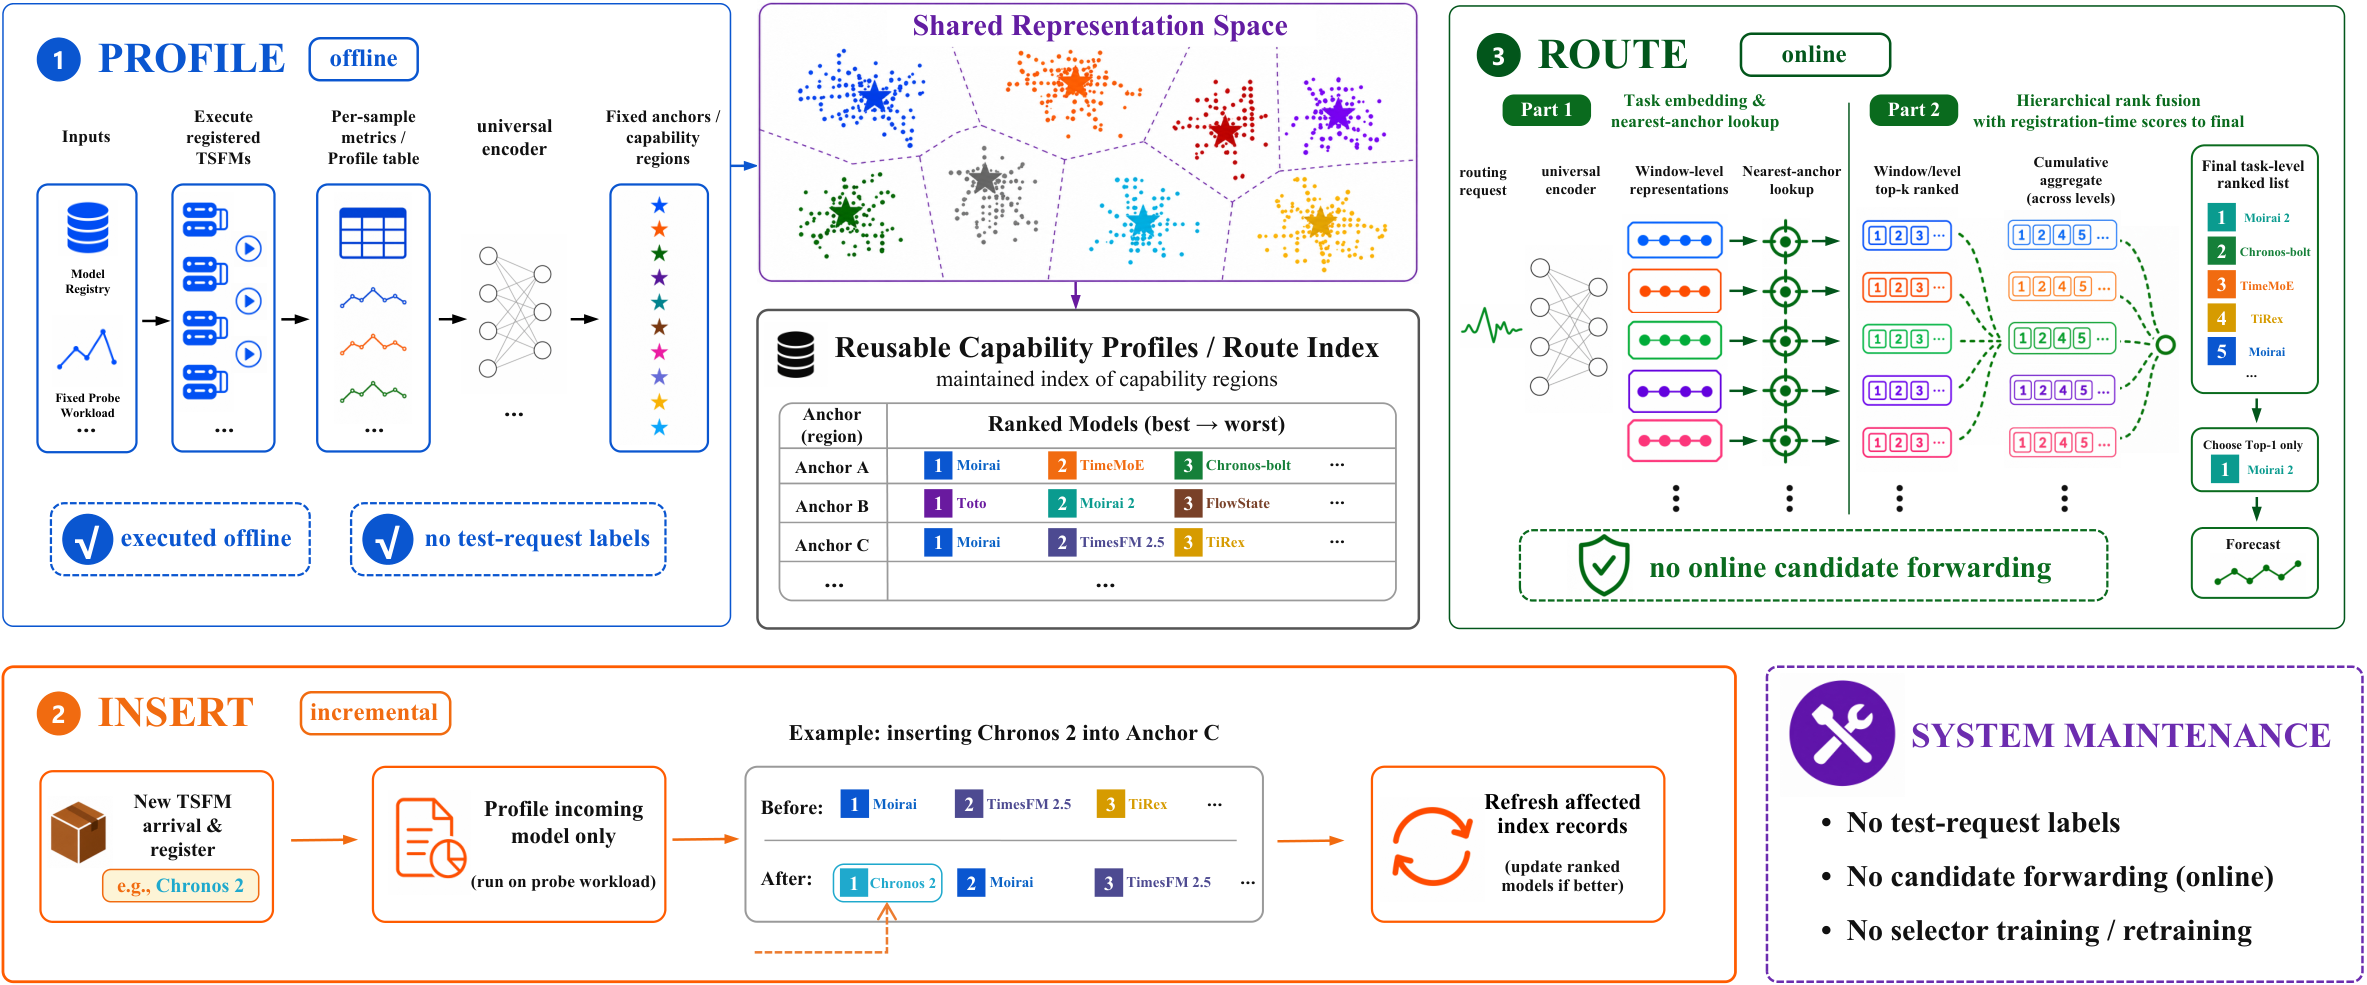
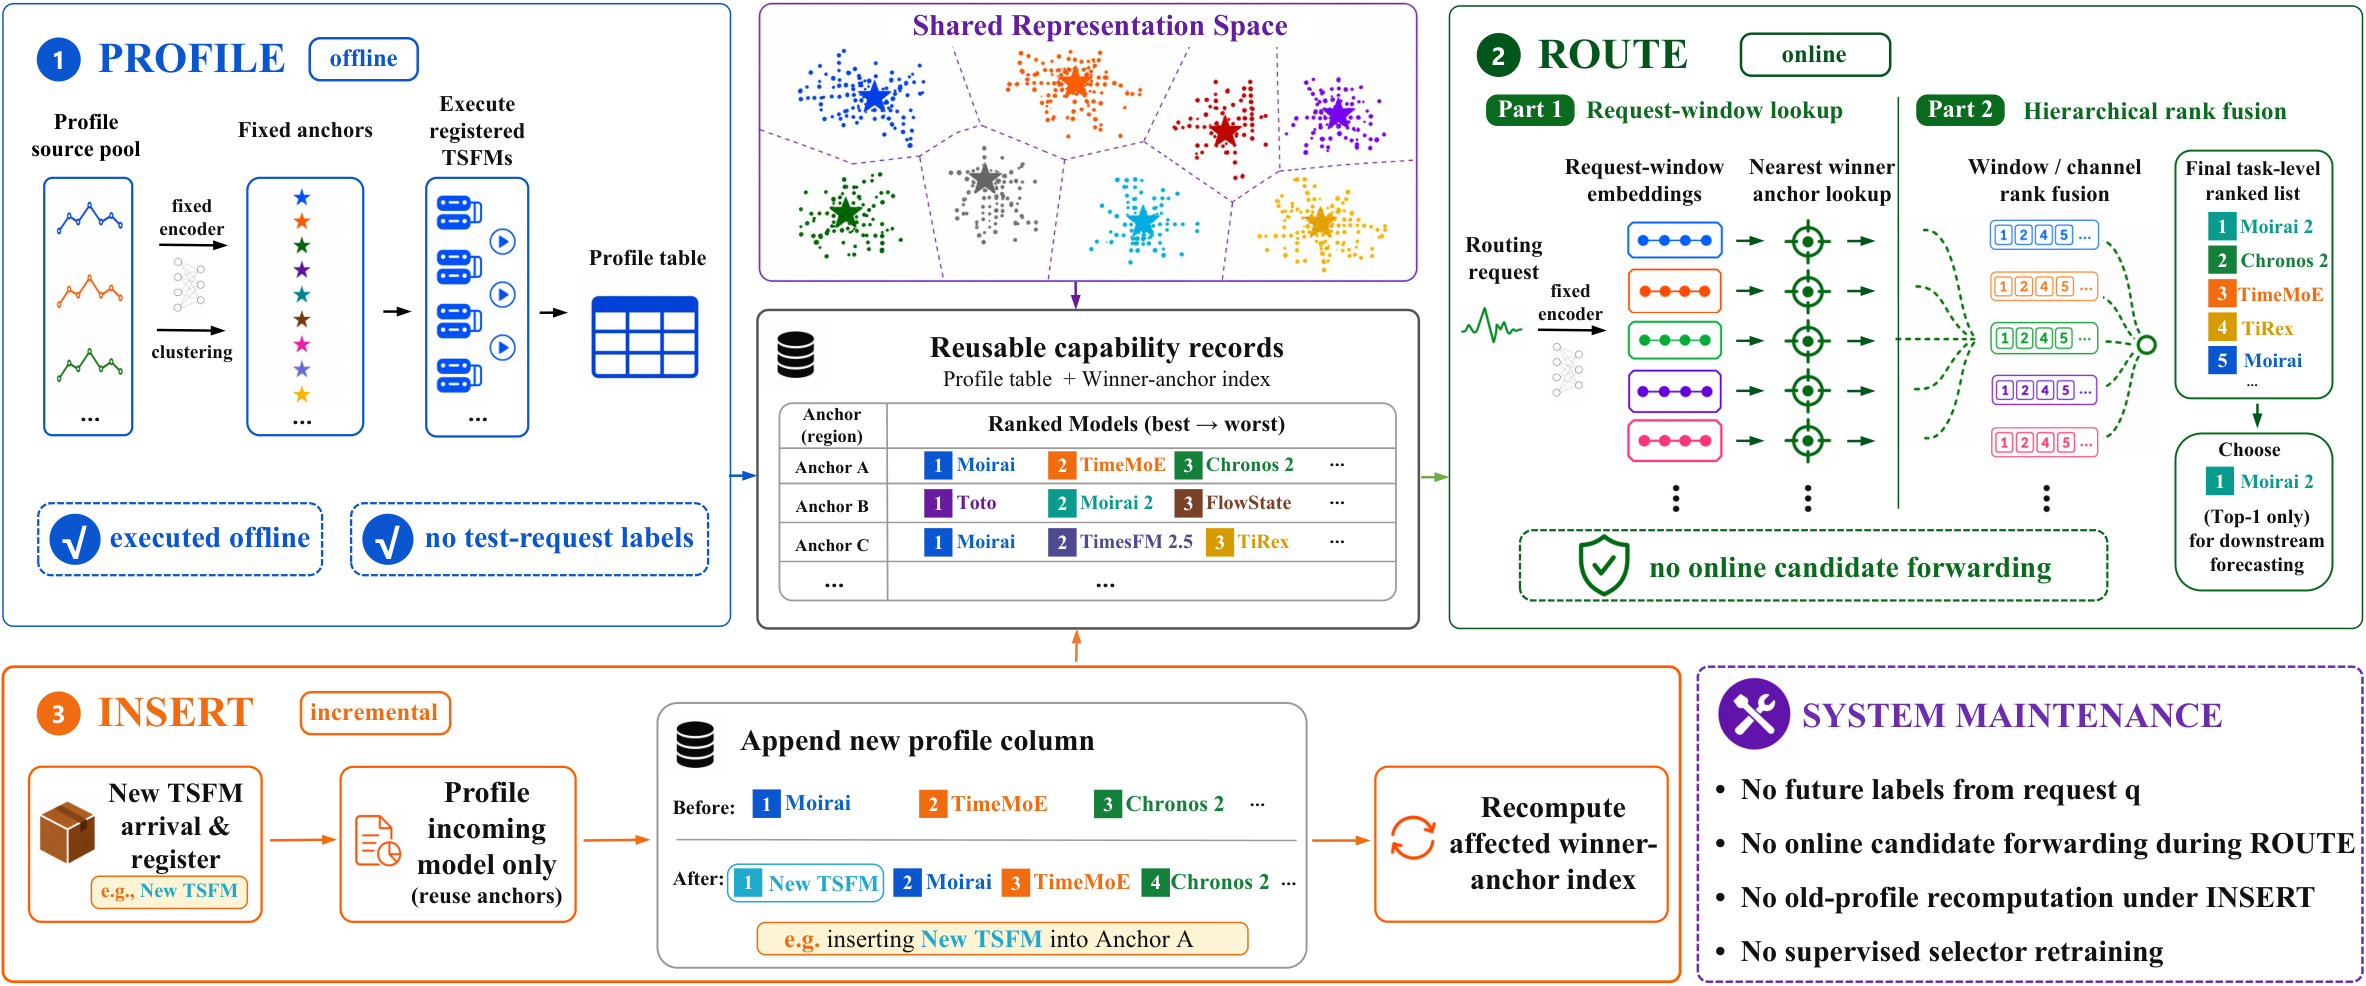
Update release figures

diff --git a/scripts/check_release_contract.py b/scripts/check_release_contract.py
@@ -225,9 +225,10 @@ def main() -> int:
     checks.extend(check_baseline_scope(profiles))
     checks.extend(check_reuse_levels())
     release_id = (RELEASE_ROOT / "VERSION").read_text(encoding="utf-8").strip()
+    package_version = release_id.removeprefix("v")
     pyproject = (RELEASE_ROOT / "pyproject.toml").read_text(encoding="utf-8")
-    checks.append(result("release:version_file", release_id == "v1.0", release_id))
-    checks.append(result("release:package_version", 'version = "1.0"' in pyproject, "1.0"))
+    checks.append(result("release:version_file", release_id.startswith("v") and bool(package_version), release_id))
+    checks.append(result("release:package_version", f'version = "{package_version}"' in pyproject, package_version))
 
     payload = {
         "ok": all(item["ok"] for item in checks),

diff --git a/README.md b/README.md
@@ -2,7 +2,7 @@
 
 This repository contains the public implementation and reproduction package for TSRouter and TSFM-ZooBench.
 
-**Release:** `v1.0`
+**Release:** `v1.1`
 
 Time-series foundation models (TSFMs) are increasingly deployed as a shared model zoo rather than selected once for a fixed benchmark. In that setting, a forecasting service must select a model for each incoming request while the zoo grows and new model evidence becomes available. TSRouter addresses this problem with a capability index that represents model behavior across time-series contexts, enabling efficient request-level ranking without evaluating every candidate model for every request.
 
@@ -18,11 +18,11 @@ TSFM-ZooBench extends a standard forecasting workload into this evolving-service
 
 ![TSRouter problem setting: forecasting tasks arrive continuously, the available TSFM zoo grows over time, model winners are workload-dependent, and routing must balance quality, efficiency, and insertion cost.](assets/figures/fig1.png)
 
-*Figure 1: TSRouter is designed for request-level TSFM selection in a growing model zoo.*
+*Figure 1: Why quality-efficiency routing is needed in a growing TSFM zoo. A multi-tenant forecasting service receives heterogeneous time-series requests while the candidate TSFM repository expands over time. Release-ordered winner shares show that request ownership is distributed across models and shifts after new arrivals. Full-zoo forwarding and selector retraining become increasingly costly as the zoo grows, motivating adaptive routing that balances forecasting accuracy, serving latency, and INSERT maintenance time.*
 
 ![TSRouter architecture: PROFILE builds reusable capability profiles, ROUTE ranks models without online candidate forwarding, and INSERT refreshes affected index records when a model arrives.](assets/figures/fig2.png)
 
-*Figure 2: PROFILE, ROUTE, and INSERT in the TSRouter architecture.*
+*Figure 2: TSRouter system architecture. PROFILE builds metric-specific capability records on fixed probe anchors. ROUTE embeds observed request windows, retrieves winner anchors, and performs hierarchical rank fusion without online candidate forwarding. INSERT profiles only the incoming TSFM before refreshing affected winner-anchor records.*
 
 ## Artifacts
 